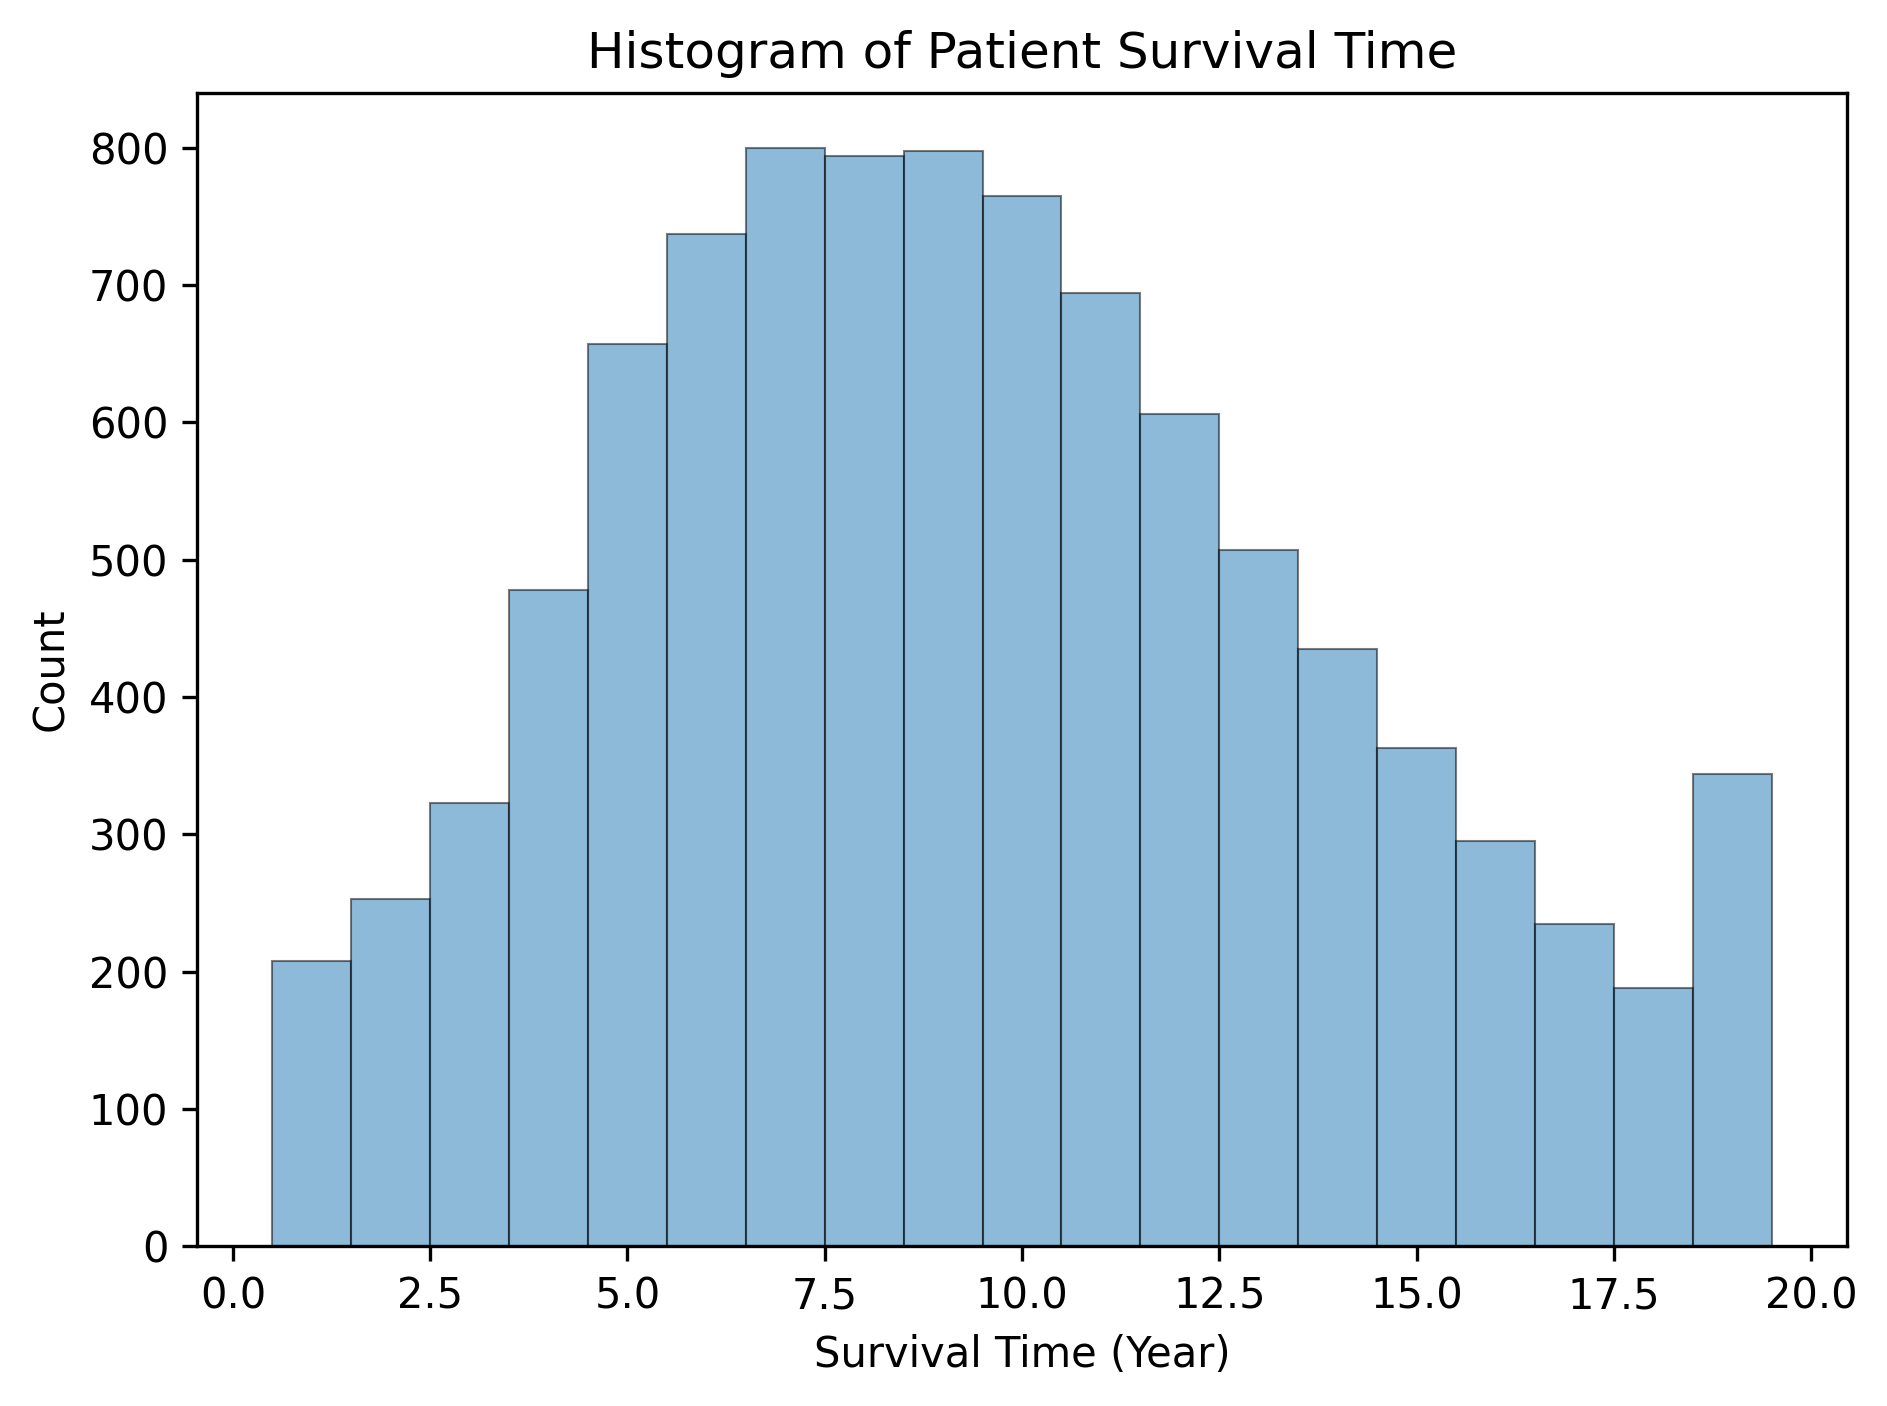
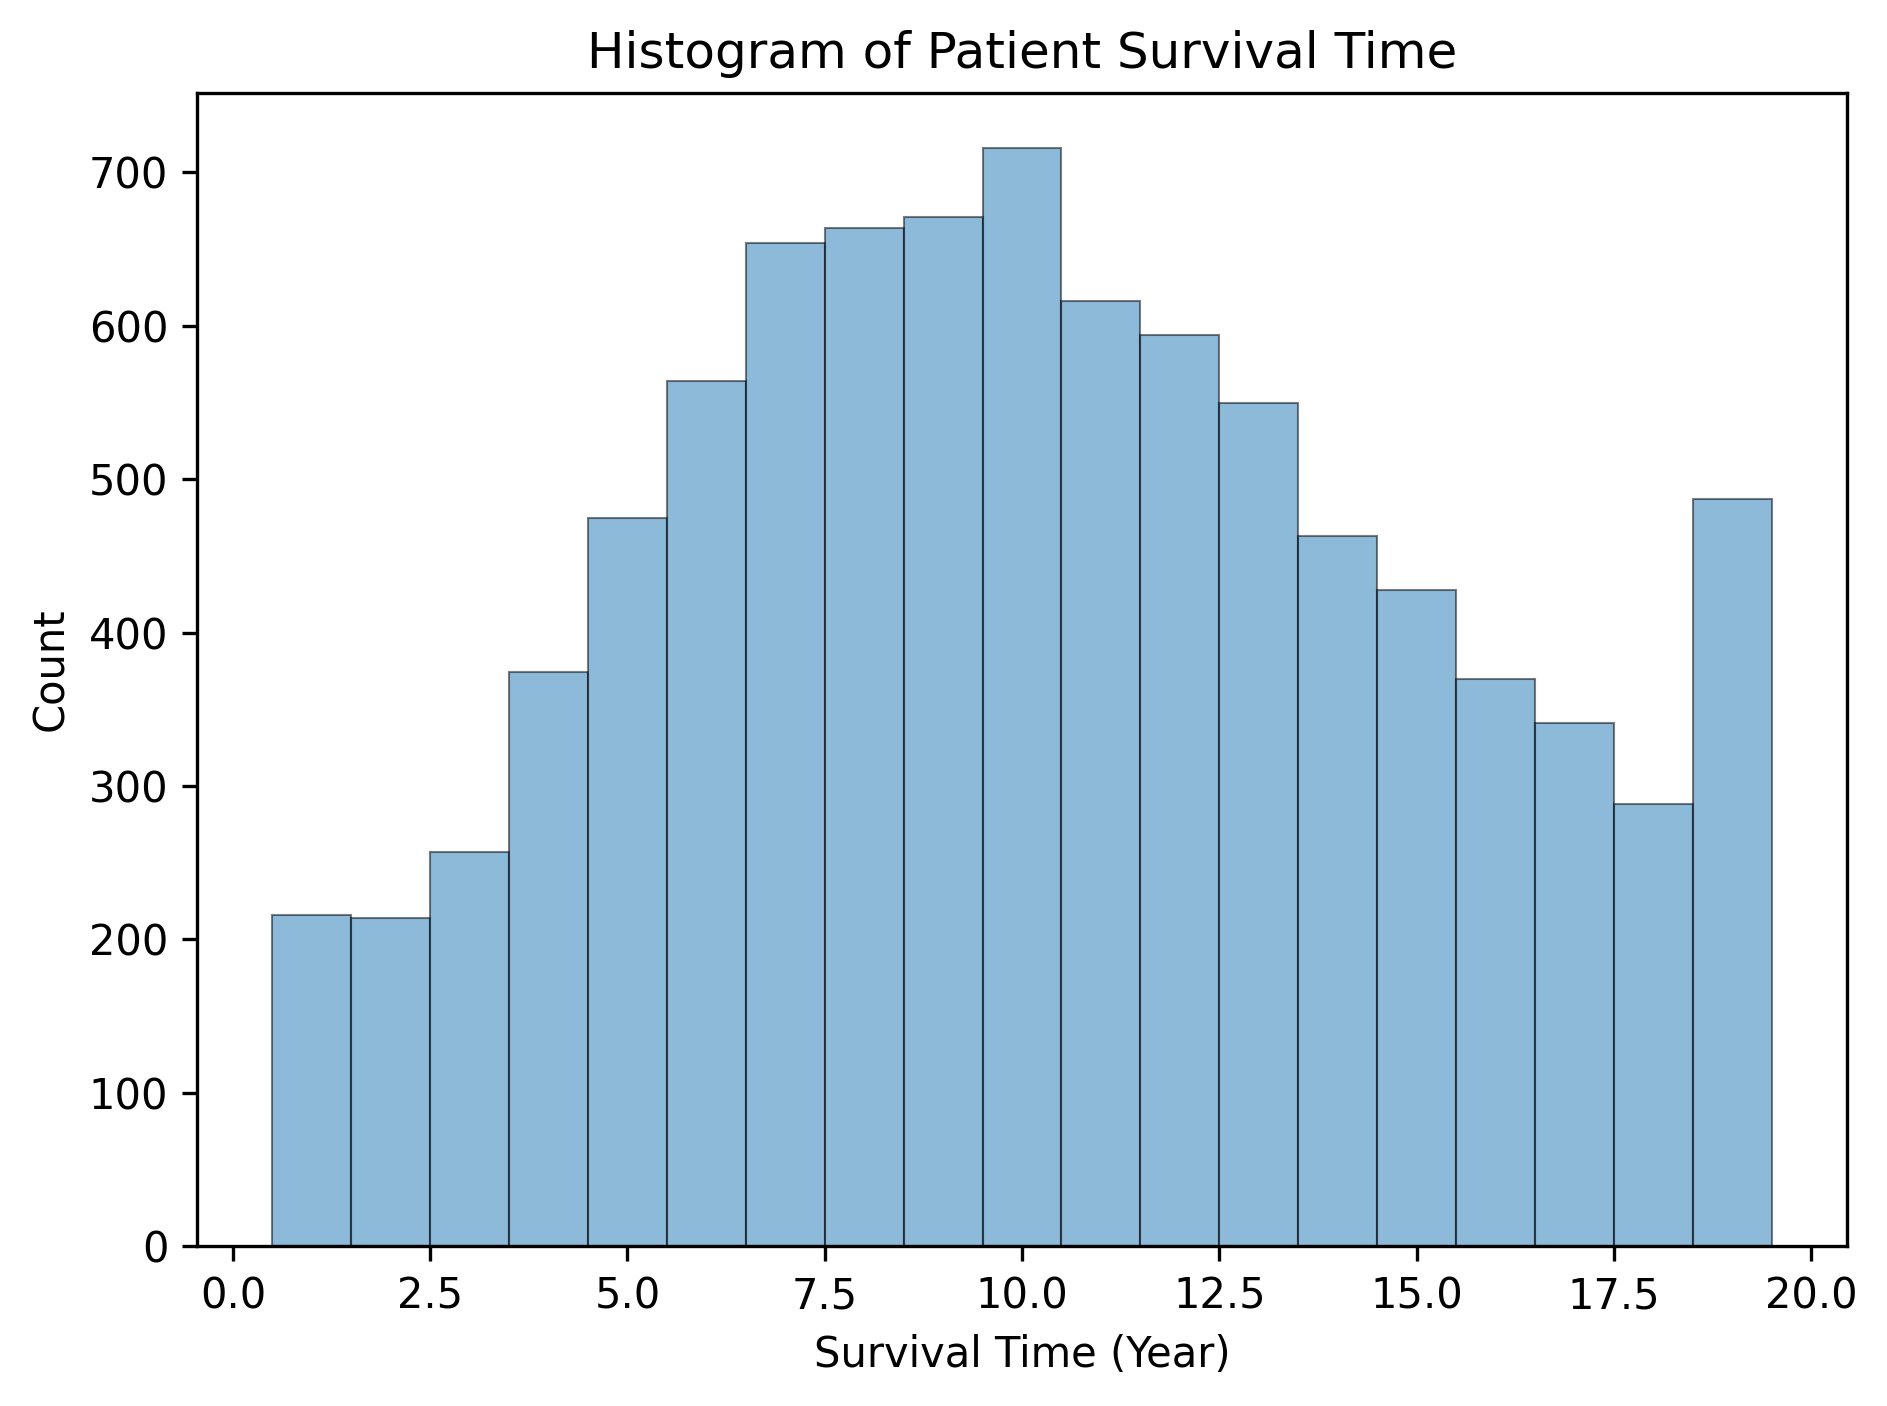
cea+sensitivity copied

diff --git a/SensitivityParamClasses.py b/SensitivityParamClasses.py
@@ -1,0 +1,115 @@
+import InputData as data
+import numpy as np
+import deampy.random_variates as rvgs
+import scipy.stats as stat
+import math
+from ParameterClasses import Therapies
+from InputData import get_trans_prob_matrix_dmt_30
+
+
+class Parameters:
+    """ class to include parameter information to simulate the model """
+
+    def __init__(self, therapy):
+
+        self.therapy = therapy              # selected therapy
+        self.initialHealthState = data.HealthStates.PREDEM     # initial health state
+        self.annualTreatmentCost = 0        # annual treatment cost
+        self.probMatrix = []                # transition probability matrix of the selected therapy
+        self.semiAnnualStateCosts = []          # annual state costs
+        self.stateUtilities = []      # annual state utilities
+        self.discountRate = data.DISCOUNT   # discount rate
+
+class ParameterGenerator:
+    """ class to generate parameter values from the selected probability distributions """
+
+    def __init__(self, therapy):
+        self.probMatrixRVG = []  # list of dirichlet distributions for transition probabilities
+        self.therapy = therapy
+        self.semiannualStateCostRVGs = []  # list of gamma distributions for the annual cost of states
+        self.StateDisutilityRVGs = []  # list of beta distributions for the annual utility of states
+        self.probMatrixRVG = []  # list of dirichlet distributions for transition probabilities
+        self.annualDMT30CostRVG = None  # gamma distribution for the cost of zidovudine
+        self.annualSOCCostRVG = None  # gamma distribution for the cost of lamivudine
+
+        # create Dirichlet distributions for transition probabilities
+        for row in data.TRANS_MATRIX:
+            # note:  for a Dirichlet distribution all values of the argument 'a' should be non-zero.
+            # setting if_ignore_0s to True allows the Dirichlet distribution to take 'a' with zero values.
+            self.probMatrixRVG.append(
+                rvgs.Dirichlet(a=row, if_ignore_0s=True))
+
+        # create gamma distributions for annual state cost
+        for cost in data.SEMI_ANNUAL_STATE_COST:  # use gamma dist as cost is not < 0
+
+            # if cost is zero, add a constant 0, otherwise add a gamma distribution
+            if cost == 0:
+                self.semiannualStateCostRVGs.append(rvgs.Constant(value=0))
+            else:
+                # find shape and scale of the assumed gamma distribution
+                # no data available to estimate the standard deviation, so we assumed st_dev=cost / 5 at 20%
+                fit_output = rvgs.Gamma.fit_mm(mean=cost, st_dev=cost / 5)
+                # append the distribution
+                self.semiannualStateCostRVGs.append(
+                    rvgs.Gamma(shape=fit_output["shape"], loc=0, scale=fit_output["scale"]))
+        fit_output_dmt30 = rvgs.Gamma.fit_mm(mean=data.DMT30_COST, st_dev=data.DMT30_COST / 5)
+        fit_output_soc = rvgs.Gamma.fit_mm(mean=data.SOC_COST, st_dev=data.SOC_COST / 5)
+
+        # then create the gamma distribution for the cost of each drug
+        self.annualDMT30CostRVG = rvgs.Gamma(shape=fit_output_dmt30["shape"], loc=0, scale=fit_output_dmt30["scale"])
+        self.annualSOCCostRVG = rvgs.Gamma(shape=fit_output_soc["shape"], loc=0, scale=fit_output_soc["scale"])
+
+        # create beta distributions for annual state utility
+        for utility in data.STATE_DISUTILITY:
+            # if utility is zero, add a constant 0, otherwise add a beta distribution
+            if utility == 0:
+                self.StateDisutilityRVGs.append(rvgs.Constant(value=0))
+            else:
+                # find alpha and beta of the assumed beta distribution
+                # no data available to estimate the standard deviation, so we assumed st_dev=cost / 4
+                fit_output = rvgs.Beta.fit_mm(mean=utility, st_dev=utility / 4)
+                # append the distribution
+                self.StateDisutilityRVGs.append(
+                     rvgs.Beta(a=fit_output["a"], b=fit_output["b"]))
+
+    def get_new_parameters(self, seed):
+        """
+        :param seed: seed for the random number generator used to a sample of parameter values
+        :return: a new parameter set
+        """
+
+        rng = np.random.RandomState(seed=seed)
+
+        # create a parameter set
+        param = Parameters(therapy=self.therapy)
+        # calculate transition probabilities
+        prob_matrix = []  # probability matrix without background mortality added
+        # for all health states
+        for s in data.HealthStates:
+            # if this state is not death
+            if s != data.HealthStates.ADJ_DEATH:
+                # sample from the dirichlet distribution to find the transition probabilities between hiv states
+                # fill in the transition probabilities out of this state
+                # gives sample from dritchlet distribution
+                prob_matrix.append(self.probMatrixRVG[s.value].sample(rng))
+        # calculate transition probabilities between hiv states
+        if self.therapy == Therapies.SOC:
+            # calculate transition probability matrix for the mono therapy
+            param.probMatrix = data.get_trans_prob_matrix(trans_matrix=prob_matrix) # check if simply need to equate it as prob_matrix
+
+        elif self.therapy == Therapies.DMT_30:
+            # calculate transition probability matrix for the combination therapy
+            param.probMatrix = get_trans_prob_matrix_dmt_30(
+                trans_prob_matrix_soc=data.get_trans_prob_matrix(trans_matrix=prob_matrix),
+                relative_risk_dmt=data.RR_DMT)
+
+        # sample from gamma distributions that are assumed for annual state costs
+        for dist in self.semiannualStateCostRVGs:
+            param.semiAnnualStateCosts.append(dist.sample(rng))
+
+        # sample from beta distributions that are assumed for annual state utilities
+        for dist in self.StateDisutilityRVGs:
+            param.stateUtilities.append(dist.sample(rng))
+
+        # return the parameter set
+        return param

diff --git a/MarkovClassesSensitivity.py b/MarkovClassesSensitivity.py
@@ -1,0 +1,89 @@
+import deampy.statistics as stat
+from MarkovClasses import Cohort
+from SensitivityParamClasses import ParameterGenerator
+
+
+class MultiCohort:
+    """ simulates multiple cohorts with different parameters """
+
+    def __init__(self, ids, pop_sizes, parameters):
+        """
+        :param ids: (list) of ids for cohorts to simulate
+        :param pop_sizes: (list) of population sizes of cohorts to simulate
+
+        """
+        self.ids = ids
+        self.popSizes = pop_sizes
+        self.params = parameters
+        self.multiCohortOutcomes = MultiCohortOutcomes(parameters=parameters)
+        self.paramSets = []  # list of parameter sets each of which corresponds to a cohort
+        self.paramGenerator = ParameterGenerator(therapy=self.params)
+
+    def simulate(self, n_time_steps):
+        """ simulates all cohorts """
+        for i in range(len(self.ids)):
+            # for each cohort, sample a new distribution
+            # get a new set of parameter values
+            param_set = self.paramGenerator.get_new_parameters(seed=i)
+            # create a cohort
+            cohort = Cohort(id=self.ids[i],
+                            pop_size=self.popSizes,
+                            parameters=param_set)
+            # simulate the cohort
+            cohort.simulate(n_time_steps=n_time_steps)
+
+            # outcomes from simulating all cohorts
+            self.multiCohortOutcomes.extract_outcomes(simulated_cohort=cohort)
+
+        # calculate the summary statistics of from all cohorts
+        self.multiCohortOutcomes.calculate_summary_stats()
+
+
+class MultiCohortOutcomes:
+    def __init__(self,parameters):
+
+        self.survivalCurves = []  # list of survival curves from all simulated cohorts
+
+        self.meanSurvivalTimes = []  # list of average patient survival time from each simulated cohort
+        self.meanTimeToAIDS = []     # list of average patient time until AIDS from each simulated cohort
+        self.meanCosts = []          # list of average patient cost from each simulated cohort
+        self.meanQALYs = []          # list of average patient QALY from each simulated cohort
+
+        self.statMeanSurvivalTime = None    # summary statistics of average survival time
+        self.statMeanTimeToAIDS = None      # summary statistics of average time until AIDS
+        self.statMeanCost = None            # summary statistics of average cost
+        self.statMeanQALY = None            # summary statistics of average QALY
+
+    def extract_outcomes(self, simulated_cohort):
+        """ extracts outcomes of a simulated cohort
+        :param simulated_cohort: a cohort after being simulated"""
+
+        # append the survival curve of this cohort
+        self.survivalCurves.append(simulated_cohort.cohortOutcomes.nLivingPatients)
+
+        # store mean survival time from this cohort
+        self.meanSurvivalTimes.append(simulated_cohort.cohortOutcomes.statSurvivalTimes.get_mean())
+        # store mean time to AIDS from this cohort
+        self.meanTimeToAIDS.append(simulated_cohort.cohortOutcomes.statTimeToSEVERE.get_mean())
+        # store mean cost from this cohort
+        self.meanCosts.append(simulated_cohort.cohortOutcomes.statCost.get_mean())
+        # store mean QALY from this cohort
+        self.meanQALYs.append(simulated_cohort.cohortOutcomes.statUtilities.get_mean())
+
+    def calculate_summary_stats(self):
+        """
+        calculate the summary statistics
+        """
+
+        # summary statistics of mean survival time
+        self.statMeanSurvivalTime = stat.SummaryStat(name='Average survival time',
+                                                     data=self.meanSurvivalTimes)
+        # summary statistics of mean time to AIDS
+        self.statMeanTimeToAIDS = stat.SummaryStat(name='Average time to AIDS',
+                                                   data=self.meanTimeToAIDS)
+        # summary statistics of mean cost
+        self.statMeanCost = stat.SummaryStat(name='Average cost',
+                                             data=self.meanCosts)
+        # summary statistics of mean QALY
+        self.statMeanQALY = stat.SummaryStat(name='Average QALY',
+                                             data=self.meanQALYs)

diff --git a/SensitivitySupport.py b/SensitivitySupport.py
@@ -1,0 +1,40 @@
+import deampy.econ_eval as econ
+import deampy.plots.histogram as hist
+import deampy.plots.sample_paths as path
+import deampy.statistics as stat
+
+import InputData as data
+
+
+def print_outcomes(multi_cohort_outcomes, therapy_name):
+    """ prints the outcomes of a simulated cohort
+    :param multi_cohort_outcomes: outcomes of a simulated multi-cohort
+    :param therapy_name: the name of the selected therapy
+    """
+    # mean and prediction interval of patient survival time
+    survival_mean_PI_text = multi_cohort_outcomes.statMeanSurvivalTime.get_formatted_mean_and_interval(
+        interval_type='p', alpha=data.ALPHA, deci=2)
+
+    # mean and prediction interval text of time to AIDS
+    time_to_HIV_death_PI_text = multi_cohort_outcomes.statMeanTimeToAIDS.get_formatted_mean_and_interval(
+        interval_type='p', alpha=data.ALPHA, deci=2)
+
+    # mean and prediction interval text of discounted total cost
+    cost_mean_PI_text = multi_cohort_outcomes.statMeanCost.get_formatted_mean_and_interval(
+        interval_type='p', alpha=data.ALPHA, deci=2, form=',')
+
+    # mean and prediction interval text of discounted total QALY
+    utility_mean_PI_text = multi_cohort_outcomes.statMeanQALY.get_formatted_mean_and_interval(
+        interval_type='p', alpha=data.ALPHA, deci=2)
+
+    # print outcomes
+    print(therapy_name)
+    print("  Estimate of mean survival time and {:.{prec}%} uncertainty interval:".format(1 - data.ALPHA, prec=0),
+          survival_mean_PI_text)
+    print("  Estimate of mean time to AIDS and {:.{prec}%} uncertainty interval:".format(1 - data.ALPHA, prec=0),
+          time_to_HIV_death_PI_text)
+    print("  Estimate of mean discounted cost and {:.{prec}%} uncertainty interval:".format(1 - data.ALPHA, prec=0),
+          cost_mean_PI_text)
+    print("  Estimate of mean discounted utility and {:.{prec}%} uncertainty interval:".format(1 - data.ALPHA, prec=0),
+          utility_mean_PI_text)
+    print("")

diff --git a/InputData.py b/InputData.py
@@ -8,16 +8,16 @@ ALPHA = 0.05        # significance level for calculating confidence intervals
 DISCOUNT = 0.03     # annual discount rate
 RR_DMT = 0.30
 
-SEMI_ANNUAL_STATE_COST = [5775.4, # PREDEM
-                     6895.2, # MILD
-                     8530.2, # MODERATE
-                     8530.2, # SEVERE
+SEMI_ANNUAL_STATE_COST = [3875, # PREDEM
+                     3875, # MILD
+                     25000, # MODERATE
+                     25000, # SEVERE
                      0] # ADJ_DEATH
 
-STATE_DISUTILITY = [-0.17,
-                    -0.22,
-                    -0.36,
-                    -0.66,
+STATE_DISUTILITY = [0.83,
+                    0.78,
+                    0.69,
+                    0.27,
                     0]
 
 DMT30_COST = 56000/2
@@ -33,10 +33,10 @@ class HealthStates(Enum):
     ADJ_DEATH = 4
 
 TRANS_MATRIX = [
-    [70,  28,    0,   0,   2],   # CD4_200to500
-    [0,     61,    15,    0,    3],   # CD4_200
-    [0,     0,      62,    23,   8],
-    [0,     0,      0,    1,   21],
+    [70,  28,    0,   0,   3],   # CD4_200to500
+    [0,     62,    32,    2,    3],   # CD4_200
+    [0,     0,      62,    24,   8],
+    [0,     0,      0,    1,   22],
     [0,     0,      0,    0,   1]# AIDS
     ]
 

diff --git a/SensitivityRun.py b/SensitivityRun.py
@@ -1,0 +1,23 @@
+import deampy.plots.histogram as hist
+import deampy.plots.sample_paths as path
+
+import InputData as data
+import MarkovClassesSensitivity as model
+import SensitivityParamClasses as param
+import SensitivitySupport as support
+
+POP_SIZE = 500             # cohort population size
+N_COHORTS = 100              # number of cohorts
+therapy = param.Therapies.SOC  # selected therapy
+
+# create multiple cohort
+multiCohort = model.MultiCohort(
+    ids=range(N_COHORTS),
+    pop_sizes=POP_SIZE,
+    parameters=therapy)
+
+multiCohort.simulate(n_time_steps=data.SIM_TIME_STEPS)
+
+# print the outcomes of this simulated cohort
+support.print_outcomes(multi_cohort_outcomes=multiCohort.multiCohortOutcomes,
+                       therapy_name=therapy)
